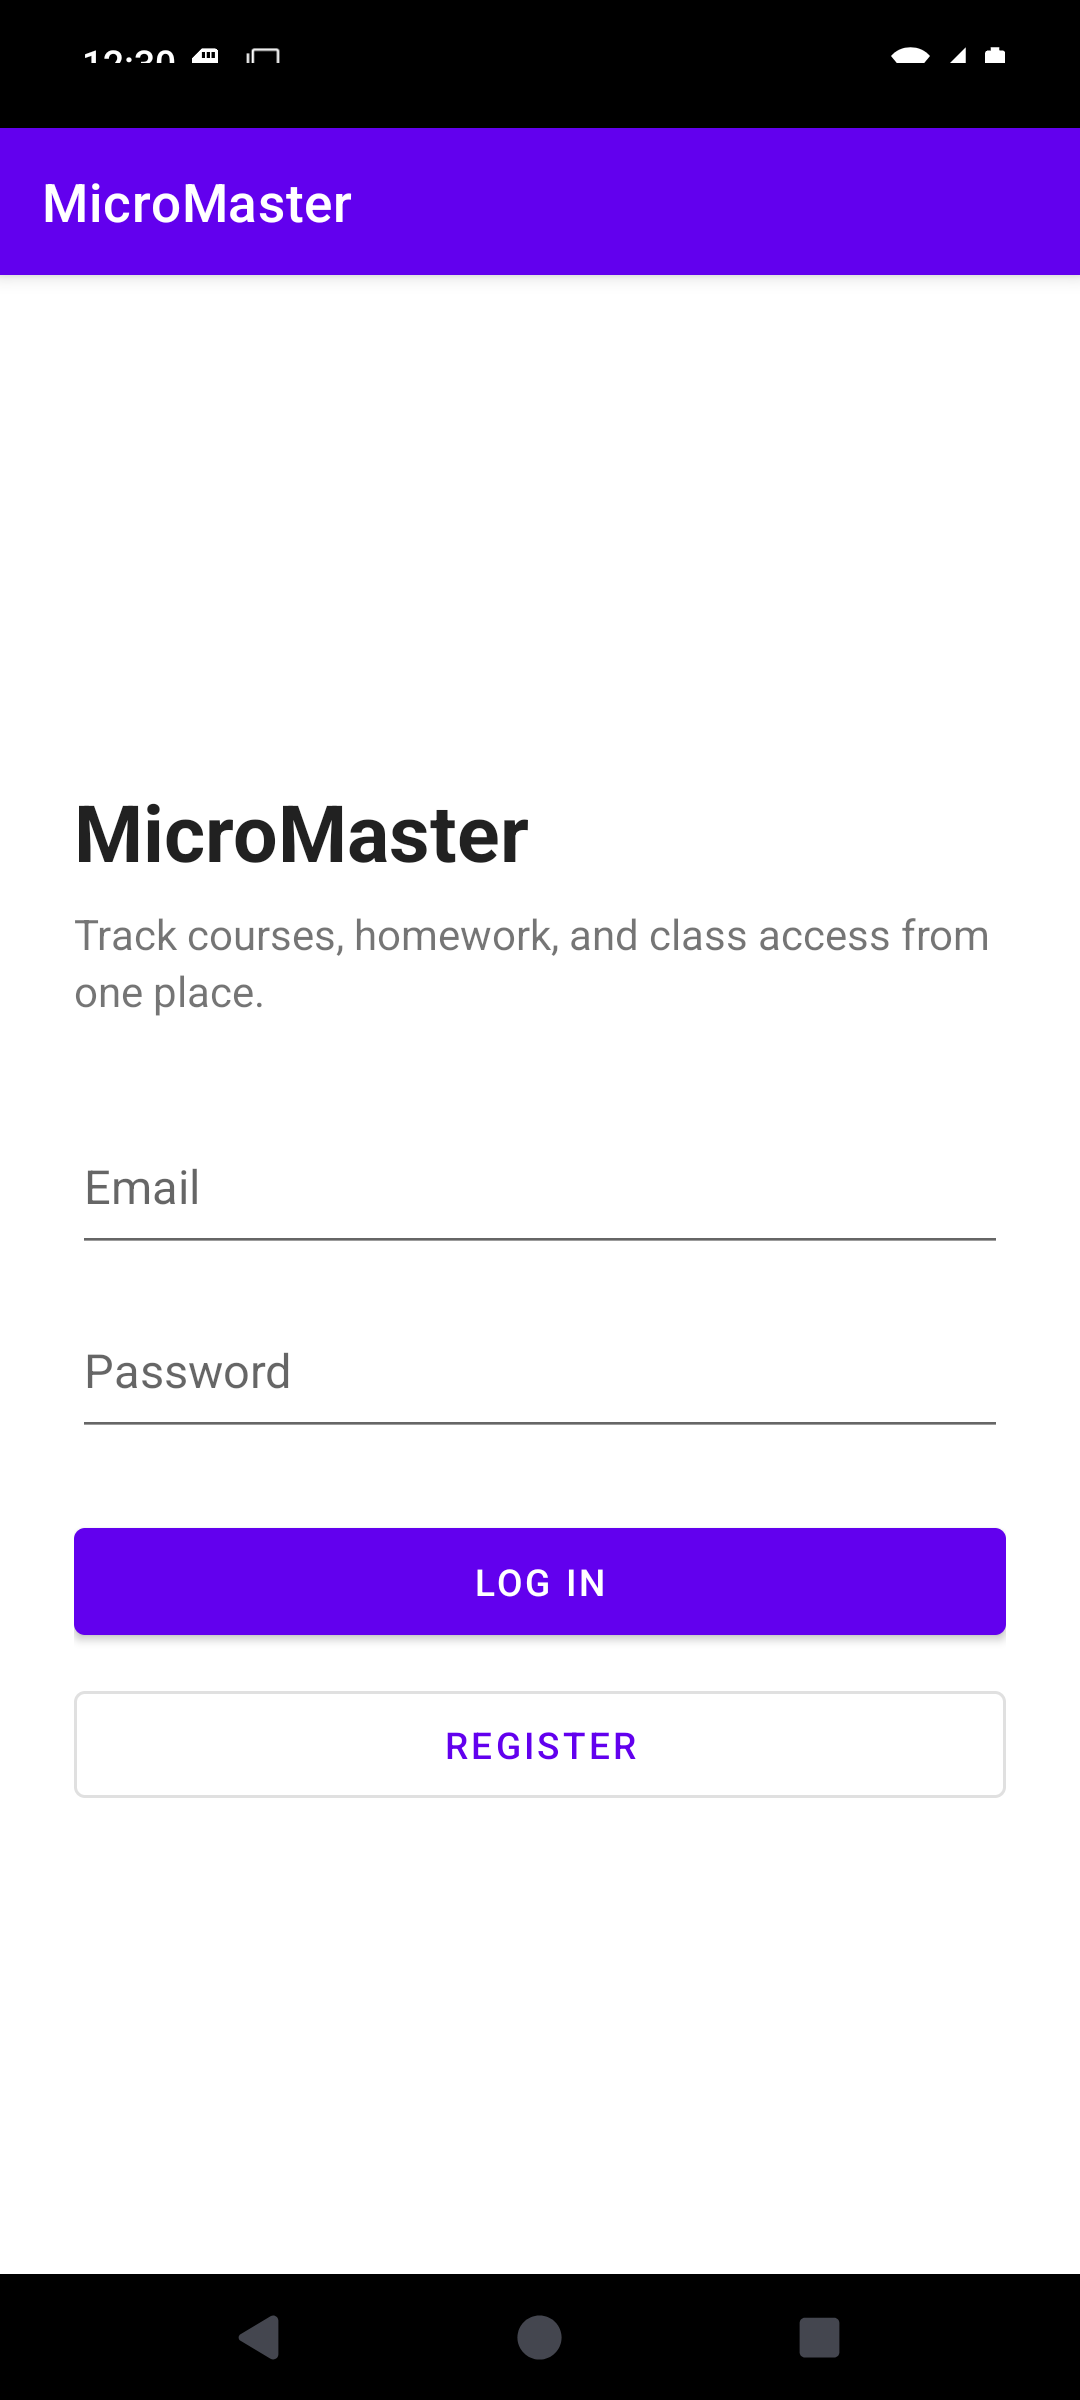
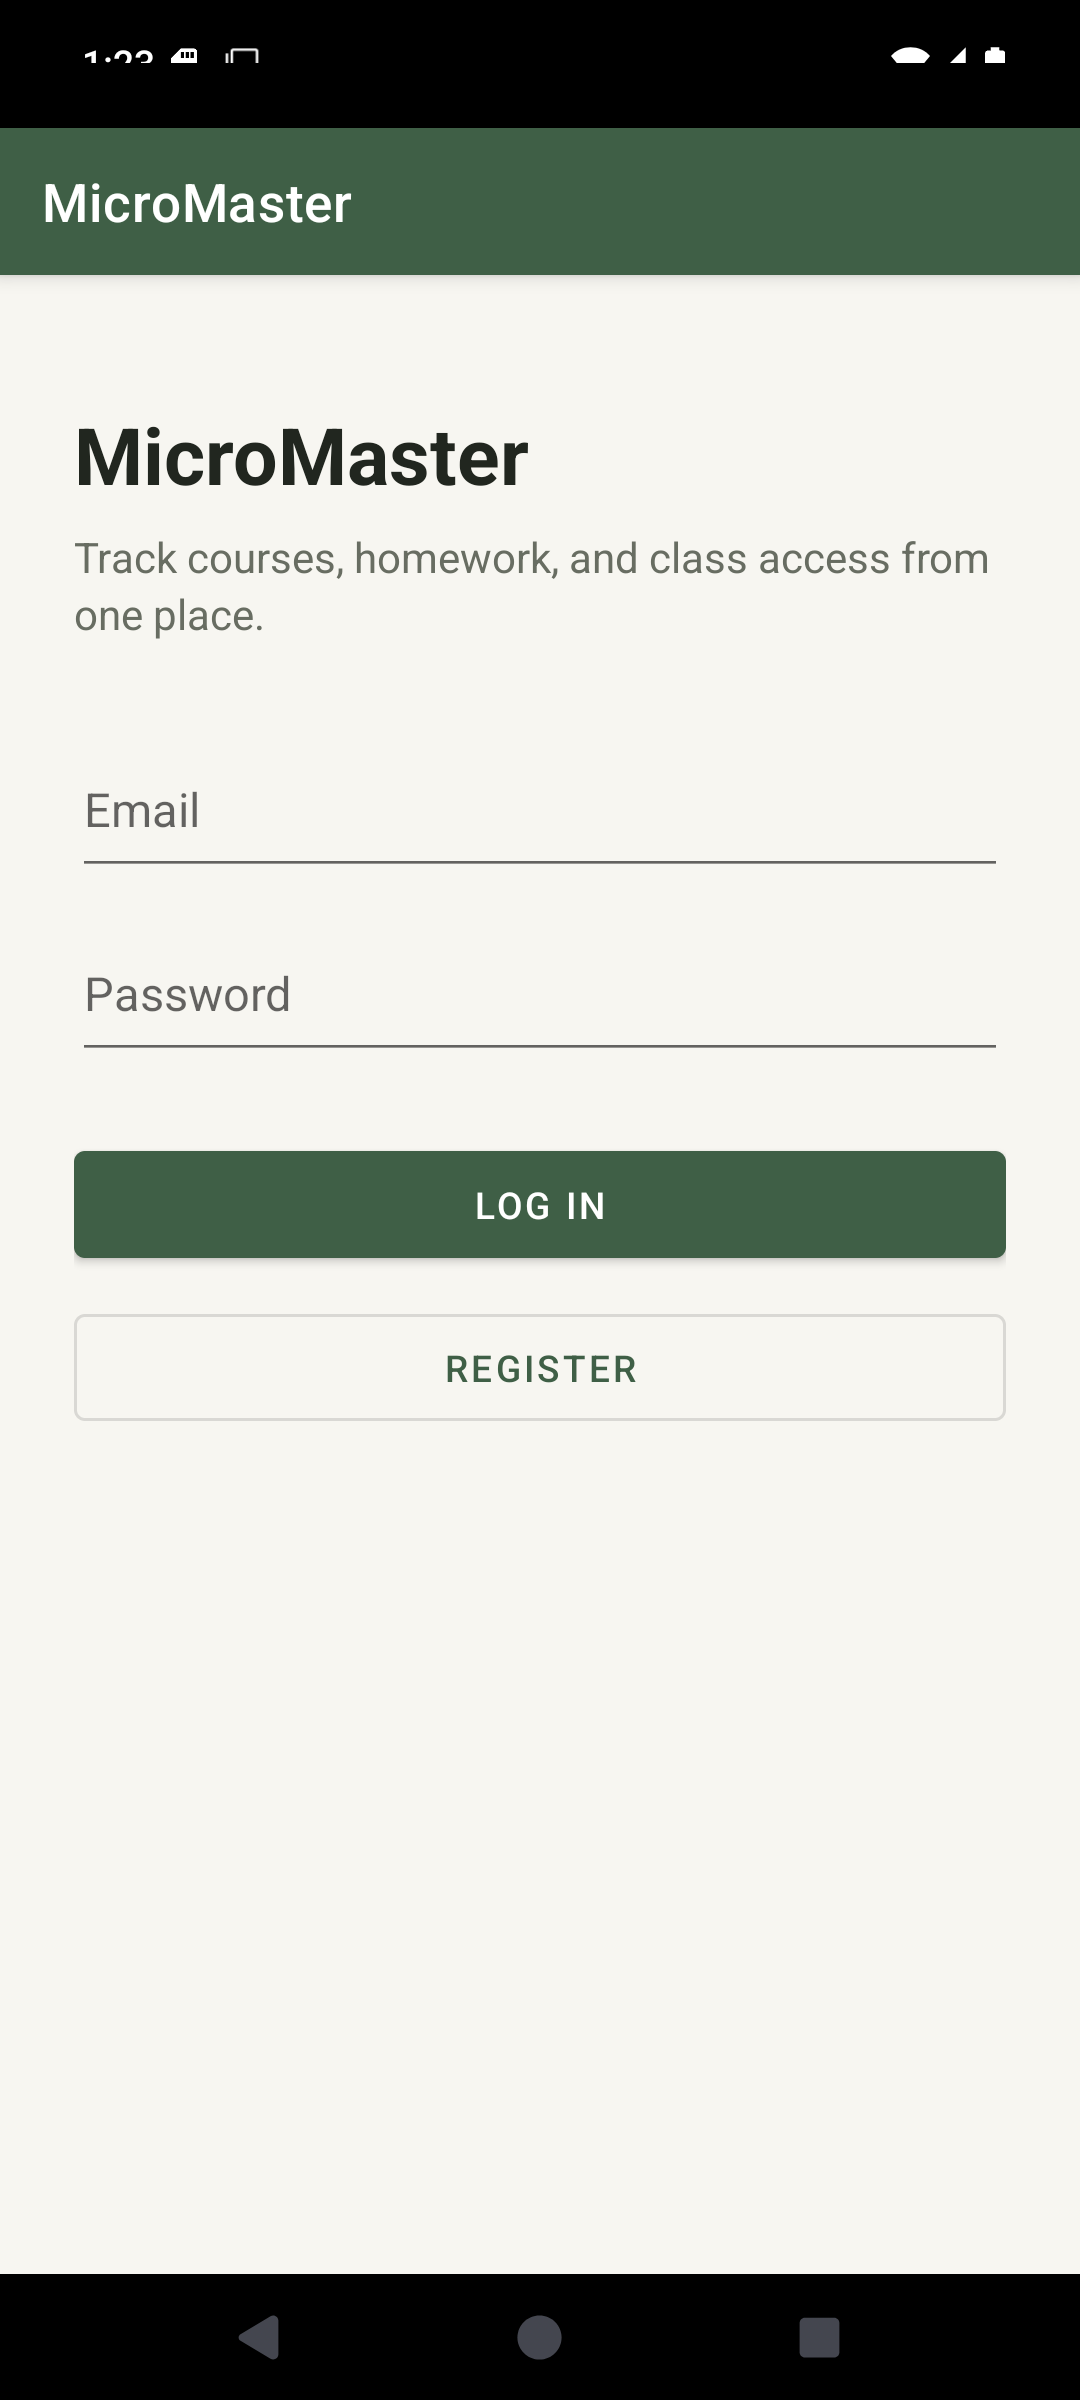
Polish Project app screens

diff --git a/app/src/main/java/com/sharif/micromaster/ProfileActivity.java b/app/src/main/java/com/sharif/micromaster/ProfileActivity.java
@@ -8,6 +8,7 @@ import androidx.recyclerview.widget.LinearLayoutManager;
 import androidx.recyclerview.widget.RecyclerView;
 
 import android.content.Intent;
+import android.graphics.Bitmap;
 import android.os.Bundle;
 import android.view.MenuItem;
 import android.view.View;
@@ -65,7 +66,10 @@ public class ProfileActivity extends AppCompatActivity implements NavigationView
             return;
         }
         if (loggedIn.getImage() != null && !loggedIn.getImage().isEmpty()) {
-            imageView.setImageBitmap(BitmapHelper.stringToBitmap(loggedIn.getImage()));
+            Bitmap profileBitmap = BitmapHelper.stringToBitmap(loggedIn.getImage());
+            if (profileBitmap != null) {
+                imageView.setImageBitmap(profileBitmap);
+            }
         }
         name.setText(displayText(loggedIn.getName(), "Unknown user"));
         email.setText(displayText(loggedIn.getEmail(), "No email"));

diff --git a/README.md b/README.md
@@ -10,9 +10,19 @@ Android course management app for the final Mobile Programming project.
 - Lets TAs request course access. Only approved TAs can add homework.
 - Shows user role, course counts, related courses, homework counts, and homework file status.
 
-## Screenshot
+## Screenshots
 
-![Login screen](docs/screenshots/login.png)
+<p>
+  <img src="docs/screenshots/login.png" width="160" alt="Login screen">
+  <img src="docs/screenshots/register.png" width="160" alt="Register screen">
+  <img src="docs/screenshots/courses-empty.png" width="160" alt="Empty course list">
+  <img src="docs/screenshots/add-course.png" width="160" alt="Add course screen">
+  <img src="docs/screenshots/courses.png" width="160" alt="Course list">
+  <img src="docs/screenshots/course-detail.png" width="160" alt="Course detail">
+  <img src="docs/screenshots/add-homework.png" width="160" alt="Add homework screen">
+  <img src="docs/screenshots/drawer.png" width="160" alt="Navigation drawer">
+  <img src="docs/screenshots/profile.png" width="160" alt="Profile screen">
+</p>
 
 ## Setup
 
@@ -51,5 +61,7 @@ adb devices
 - Course details and homework: `CourseActivity`, `AddHomeworkActivity`
 - Profile screen: `ProfileActivity`
 - Local database: Room entities and DAOs under `com.sharif.micromaster`
+- Profile images fall back to the app icon when no photo is saved.
+- The app includes light and night colors for the main screens.
 
 The app stores users, courses, enrollments, TA records, homework links, and login state in Room. Homework links can point to online files and are downloaded through Android DownloadManager.